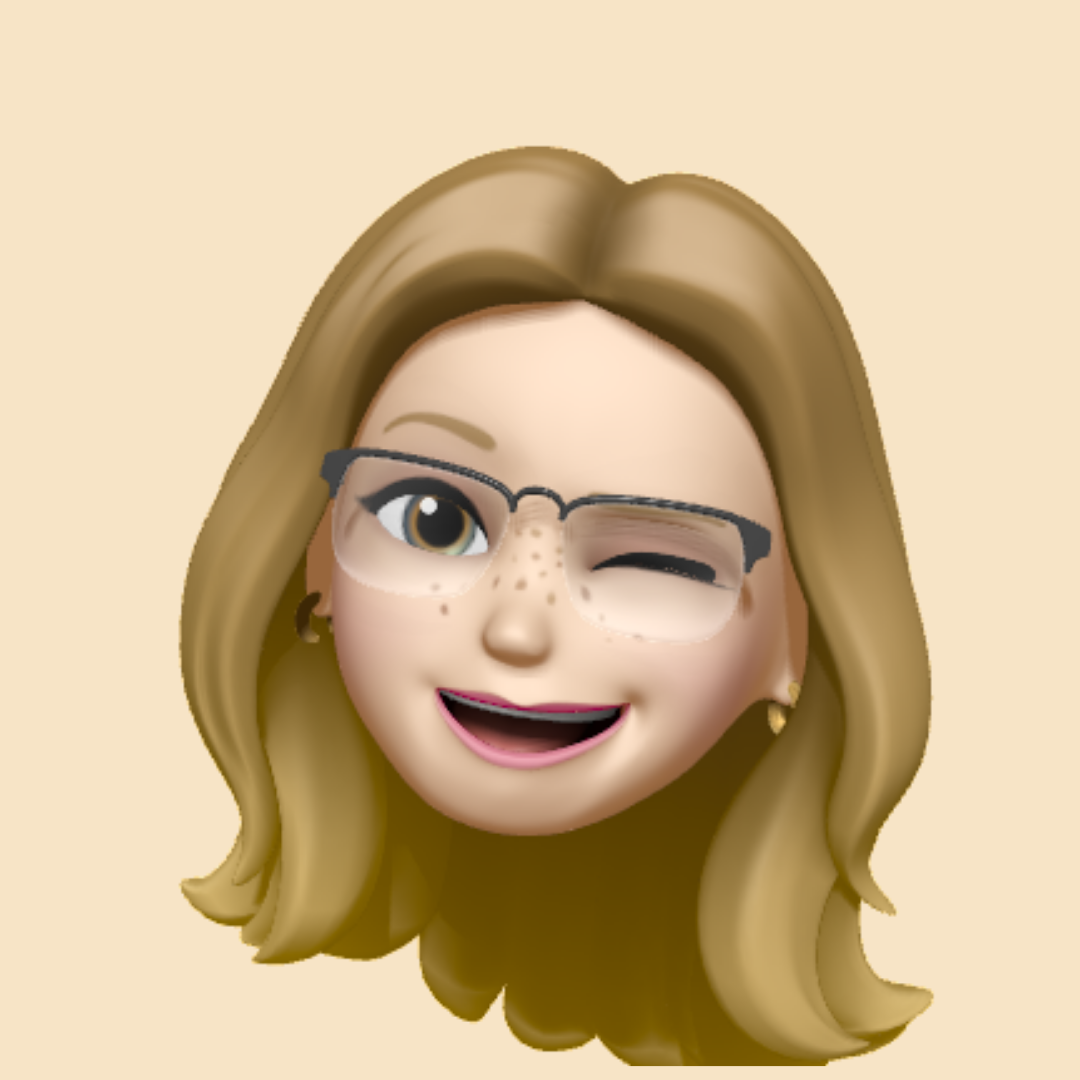
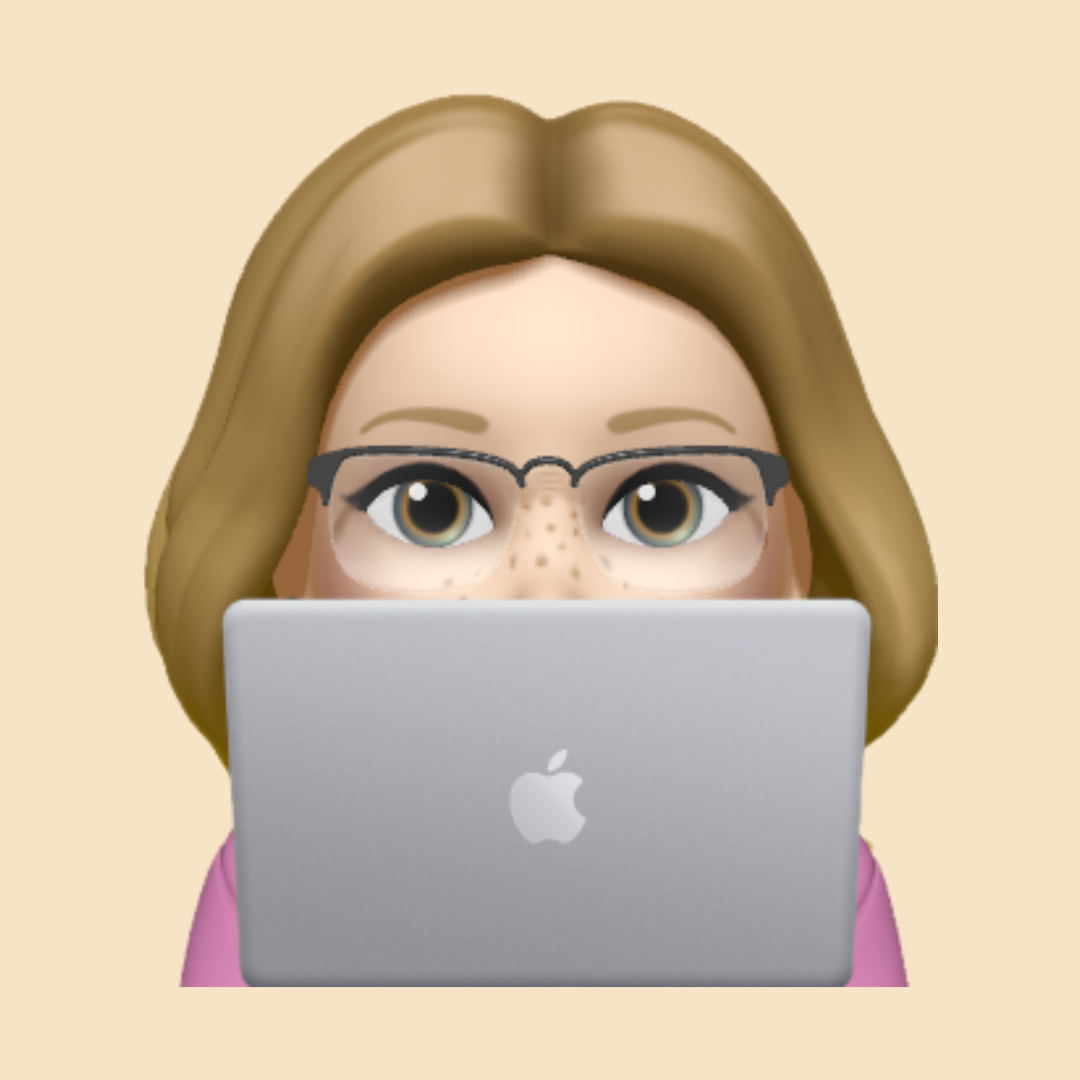
update

diff --git a/index.html b/index.html
@@ -13,7 +13,7 @@
 <body>
 <div id="wrapper">
     <div id="avatar">
-            <img src="images/9.png">
+        <img src="images/perfil.png">
         </div>
         <h1>Brendinha Tech 🌐</h1>
         <ul id="profile">
